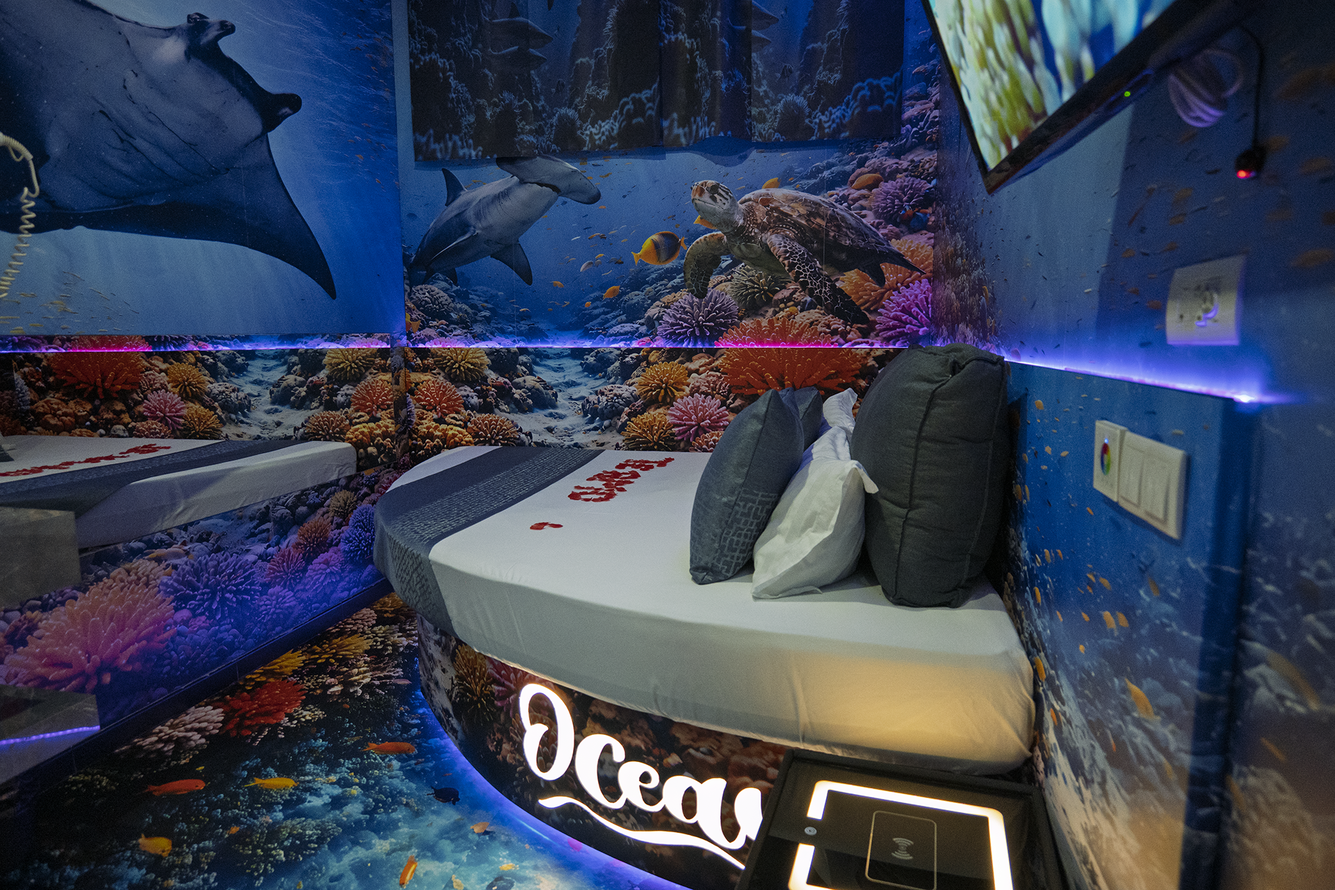
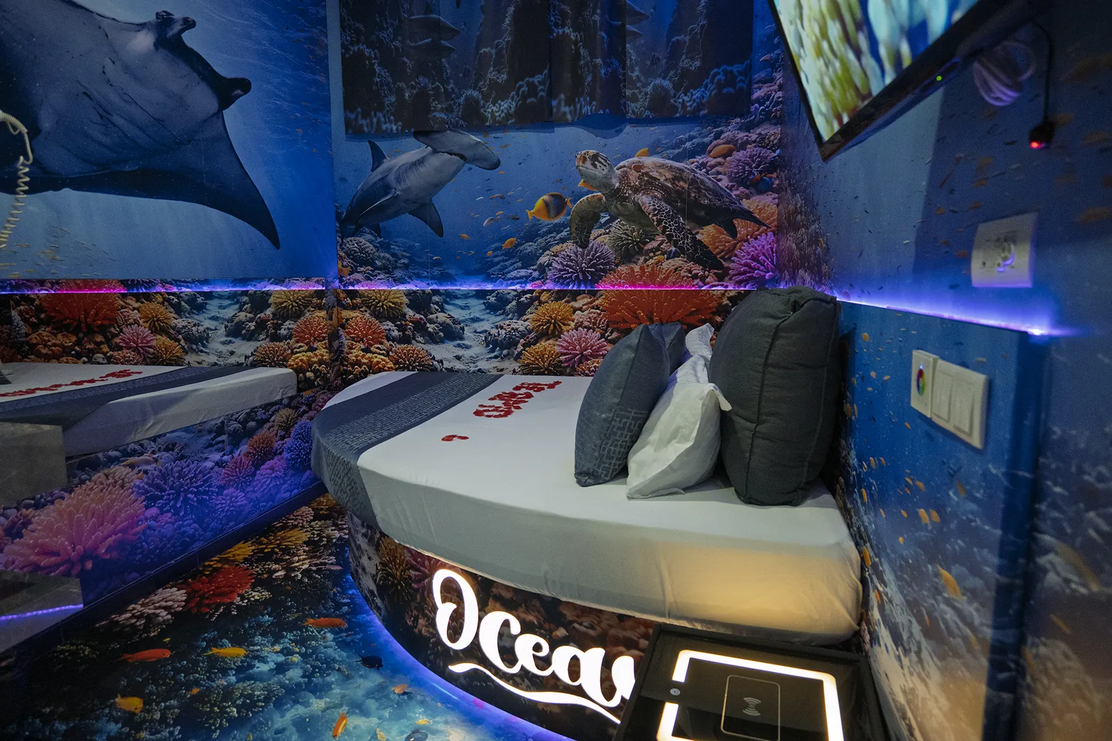
perf: shrink room photos and only mount nearby carousel slides
The public booking page downloaded ~48 MB of photos for RM Ventas alone:
2 MB PNGs, and every slide of every carousel because stacked opacity-0
<img>s are fetched even with loading="lazy".

- Recompress the 26 photos over 500 KB to WebP q80, max 1600 px
  (55 MB -> 3 MB); PNG references in reservar.tsx now point to .webp.
- RoomImageCarousel / DecorationCarousel mount only the visible slide and
  its neighbours (24 images instead of 61 for Ventas).

Changed region(s): [[0.5312, 0.3711, 0.5625, 0.4021]]

diff --git a/src/routes/reservar.tsx b/src/routes/reservar.tsx
@@ -80,17 +80,17 @@ const ROOM_IMAGES_MAP: Record<string, Record<string, string[]>> = {
       "/imagenes/Ventas/Empire State/Empire_jacuzzi.jpeg",
     ],
     Grey: [
-      "/imagenes/Ventas/Grey/01.PNG",
-      "/imagenes/Ventas/Grey/02.PNG",
-      "/imagenes/Ventas/Grey/03.PNG",
-      "/imagenes/Ventas/Grey/05.PNG",
-      "/imagenes/Ventas/Grey/06.PNG",
-      "/imagenes/Ventas/Grey/07.PNG",
-      "/imagenes/Ventas/Grey/08.PNG",
-      "/imagenes/Ventas/Grey/09.PNG",
+      "/imagenes/Ventas/Grey/01.webp",
+      "/imagenes/Ventas/Grey/02.webp",
+      "/imagenes/Ventas/Grey/03.webp",
+      "/imagenes/Ventas/Grey/05.webp",
+      "/imagenes/Ventas/Grey/06.webp",
+      "/imagenes/Ventas/Grey/07.webp",
+      "/imagenes/Ventas/Grey/08.webp",
+      "/imagenes/Ventas/Grey/09.webp",
       "/imagenes/Ventas/Grey/10.jpg",
-      "/imagenes/Ventas/Grey/11.PNG",
-      "/imagenes/Ventas/Grey/12.PNG",
+      "/imagenes/Ventas/Grey/11.webp",
+      "/imagenes/Ventas/Grey/12.webp",
     ],
     Hollywood: [
       "/imagenes/Ventas/Hollywood/Hollywood_1.jpeg",
@@ -99,16 +99,16 @@ const ROOM_IMAGES_MAP: Record<string, Record<string, string[]>> = {
       "/imagenes/Ventas/Hollywood/Hollywood_4.jpeg",
     ],
     Music: [
-      "/imagenes/Ventas/Music/15A1DD58-967F-44AF-9389-2999746452E1.png",
-      "/imagenes/Ventas/Music/1605D0D3-DC30-4DE8-AF92-41D334E9FB1F.png",
-      "/imagenes/Ventas/Music/2B9E4E98-28E7-4E62-862A-2CE1C4D0C857.png",
-      "/imagenes/Ventas/Music/7CB89554-92C8-470A-90A1-9D2C5326DFAB.png",
-      "/imagenes/Ventas/Music/894BD178-1999-446F-9F06-D70A9E8FA168.png",
-      "/imagenes/Ventas/Music/9C000FD8-B8DE-4392-883C-DD20B8681AAD.png",
-      "/imagenes/Ventas/Music/BBC52576-5AE2-4F39-870A-947F1112EF70.png",
-      "/imagenes/Ventas/Music/C6B73C3C-0758-4A03-B9EB-46DD4D41EEE2.png",
-      "/imagenes/Ventas/Music/DADF31B3-AB0C-4EDD-9486-3976D5FEB3E4.png",
-      "/imagenes/Ventas/Music/E699A73D-3ACA-40DF-9463-46FF0E1EE89B.png",
+      "/imagenes/Ventas/Music/15A1DD58-967F-44AF-9389-2999746452E1.webp",
+      "/imagenes/Ventas/Music/1605D0D3-DC30-4DE8-AF92-41D334E9FB1F.webp",
+      "/imagenes/Ventas/Music/2B9E4E98-28E7-4E62-862A-2CE1C4D0C857.webp",
+      "/imagenes/Ventas/Music/7CB89554-92C8-470A-90A1-9D2C5326DFAB.webp",
+      "/imagenes/Ventas/Music/894BD178-1999-446F-9F06-D70A9E8FA168.webp",
+      "/imagenes/Ventas/Music/9C000FD8-B8DE-4392-883C-DD20B8681AAD.webp",
+      "/imagenes/Ventas/Music/BBC52576-5AE2-4F39-870A-947F1112EF70.webp",
+      "/imagenes/Ventas/Music/C6B73C3C-0758-4A03-B9EB-46DD4D41EEE2.webp",
+      "/imagenes/Ventas/Music/DADF31B3-AB0C-4EDD-9486-3976D5FEB3E4.webp",
+      "/imagenes/Ventas/Music/E699A73D-3ACA-40DF-9463-46FF0E1EE89B.webp",
     ],
     "Route 66": [
       "/imagenes/Ventas/Route 66/ruta66nueva.jpeg",
@@ -424,8 +424,8 @@ function messageSurfaceLabel(r: { name: string; building: string }) {
 // (No AI-generated placeholders — cava/Moët/Juvé bottle images were removed.)
 const DECORATION_PHOTOS: string[] = [
   "/imagenes/maldivasdecoespacial.JPG",
-  "/imagenes/dubaiteamo.PNG",
-  "/imagenes/moetpremiumdeluxe.PNG",
+  "/imagenes/dubaiteamo.webp",
+  "/imagenes/moetpremiumdeluxe.webp",
   "/imagenes/Decos/Premium/DecoPremium.jpeg",
   "/imagenes/Decos/Premium/decopremium_2.jpeg",
 ];

diff --git a/src/components/RoomImageCarousel.tsx b/src/components/RoomImageCarousel.tsx
@@ -44,7 +44,10 @@ export function RoomImageCarousel({
   return (
     <div style={{ position: "relative", width: "100%", height, overflow: "hidden", background: "#000" }}>
       {images.map((src, idx) => (
-        <img
+        // Only the visible photo and its neighbours are mounted: stacked
+        // opacity-0 <img>s still download, so mounting all of them fetched
+        // every photo of every room at once.
+        isNear(idx, i, images.length) && <img
           key={src}
           src={src}
           alt={alt}
@@ -111,6 +114,12 @@ export function RoomImageCarousel({
       </div>
     </div>
   );
+}
+
+/** True for the current slide and the ones right before/after it (wrapping). */
+export function isNear(idx: number, current: number, length: number) {
+  const d = Math.abs(idx - current);
+  return d <= 1 || d === length - 1;
 }
 
 function arrowStyle(side: "left" | "right"): React.CSSProperties {

diff --git a/src/components/DecorationCarousel.tsx b/src/components/DecorationCarousel.tsx
@@ -1,4 +1,5 @@
 import { useEffect, useState } from "react";
+import { isNear } from "@/components/RoomImageCarousel";
 
 /**
  * Auto-advancing photo carousel for the decoration extras (real uploaded
@@ -26,7 +27,7 @@ export function DecorationCarousel({
   return (
     <div style={{ position: "relative", width: "100%", height, overflow: "hidden", background: "#000" }}>
       {images.map((src, idx) => (
-        <img
+        isNear(idx, i, images.length) && <img
           key={src}
           src={src}
           alt="Decoración"
